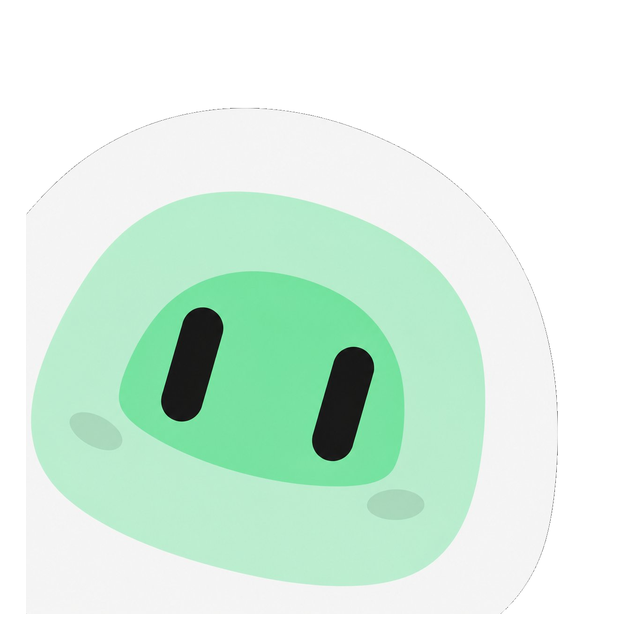
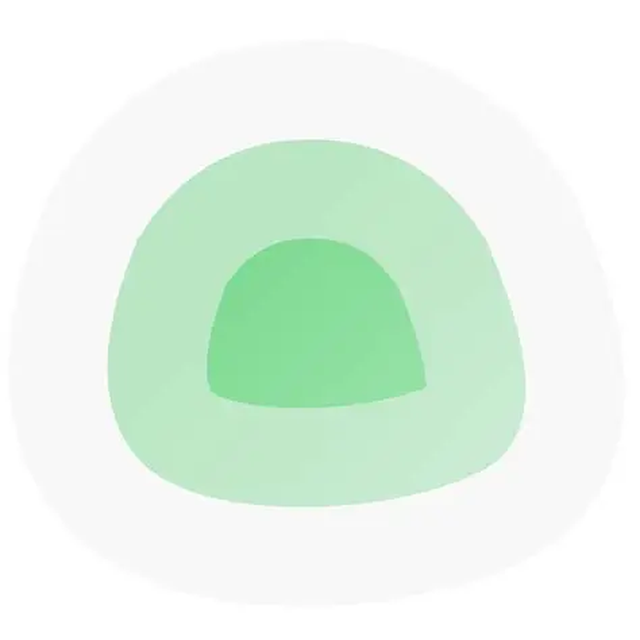
图标语义拆分：默认（第三方）与官方并存
- 新增 official 变体（IconOfficial + ic_launcher_official + uk_fg_official），
  恢复为原始官方图形（无眼睛版本）
- default 变体改名为「默认」，使用第三方改稿（带眼睛）
- 关于页与首启页的标识换成第三方改稿 icon_default.png
- 去掉 default 条目上「官方」的标识

Changed region(s): [[0.0312, 0.2188, 0.8438, 0.9375]]

diff --git a/lib/services/icon_changer.dart b/lib/services/icon_changer.dart
@@ -15,7 +15,8 @@ class IconChanger {
   static bool get supported => Platform.isAndroid;
 
   static const List<IconVariant> variants = [
-    IconVariant('default', 'Official', '官方', 'icon_official'),
+    IconVariant('default', 'Default', '默认', 'icon_default'),
+    IconVariant('official', 'Official', '官方', 'icon_official'),
     IconVariant('emerald', 'Emerald', '翡翠', 'icon_emerald'),
     IconVariant('midnight', 'Midnight', '午夜', 'icon_midnight'),
     IconVariant('crimson', 'Crimson', '朱红', 'icon_crimson'),

diff --git a/lib/features/settings/about_page.dart b/lib/features/settings/about_page.dart
@@ -81,7 +81,7 @@ class _AboutPageState extends State<AboutPage> {
                   ),
                   clipBehavior: Clip.antiAlias,
                   child: Image.asset(
-                    'assets/images/icon_official.png',
+                    'assets/images/icon_default.png',
                     fit: BoxFit.cover,
                     errorBuilder: (_, _, _) => Container(
                       color: tk.accent,

diff --git a/lib/features/guide/guide_page.dart b/lib/features/guide/guide_page.dart
@@ -120,7 +120,7 @@ class _Mark extends StatelessWidget {
       ),
       clipBehavior: Clip.antiAlias,
       child: Image.asset(
-        'assets/images/icon_official.png',
+        'assets/images/icon_default.png',
         fit: BoxFit.cover,
         errorBuilder: (_, _, _) => Container(
           color: tk.accent,

diff --git a/android/app/src/main/kotlin/com/zakoflare/uptime_kuma_app/MainActivity.kt b/android/app/src/main/kotlin/com/zakoflare/uptime_kuma_app/MainActivity.kt
@@ -48,6 +48,7 @@ class MainActivity : FlutterActivity() {
 
     private val aliases = linkedMapOf(
         "default" to "IconDefault",
+        "official" to "IconOfficial",
         "emerald" to "IconEmerald",
         "midnight" to "IconMidnight",
         "crimson" to "IconCrimson",
